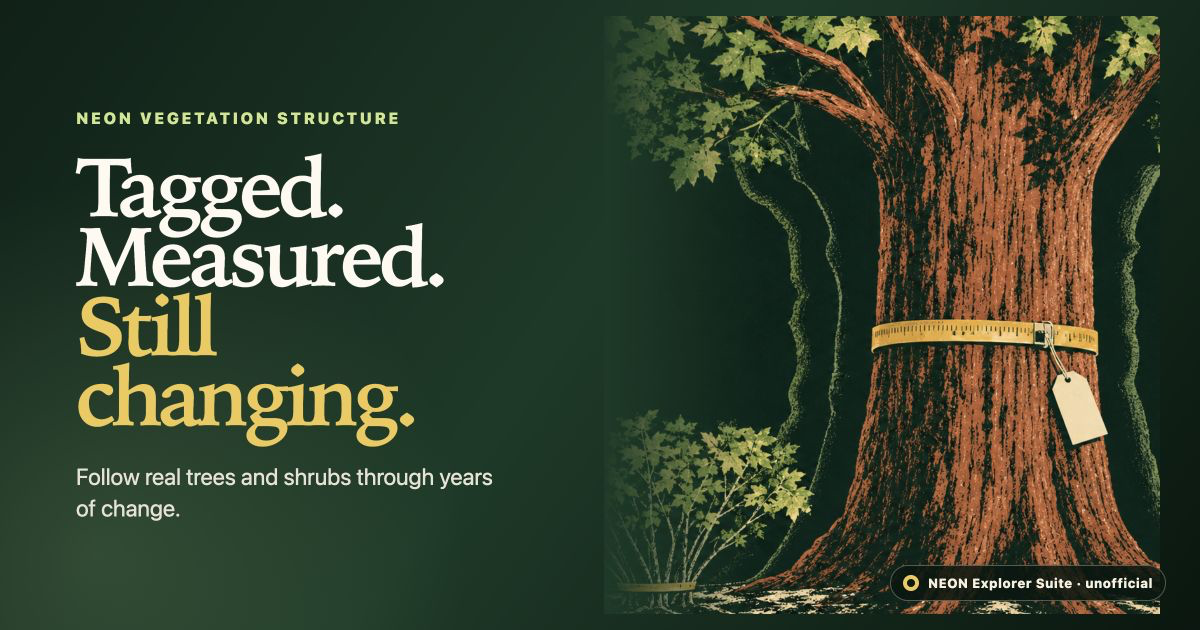
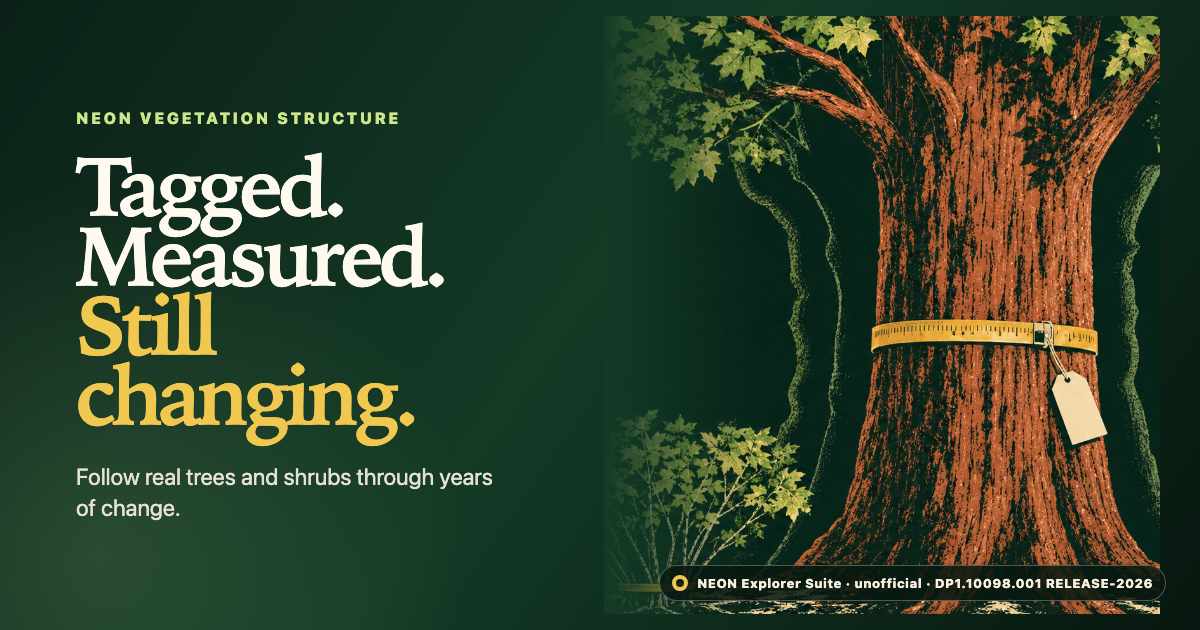
docs(cover): share card carries DP1.10098.001 RELEASE-2026; og-image re-rendered and re-hashed

diff --git a/docs/social-card.html b/docs/social-card.html
@@ -109,7 +109,7 @@
     <figure class="art">
       <img src="assets/vegetation-living-poster.png" alt="" />
     </figure>
-    <div class="stamp"><span class="ring"></span> NEON Explorer Suite · unofficial</div>
+    <div class="stamp"><span class="ring"></span> NEON Explorer Suite · unofficial · DP1.10098.001 RELEASE-2026</div>
   </main>
 </body>
 </html>

diff --git a/docs/IMAGE-PROVENANCE.md b/docs/IMAGE-PROVENANCE.md
@@ -34,8 +34,8 @@ rather than generated marks.
[7 lines of base64/hex data omitted]
 
 The social card is a separate local HTML/CSS composition rendered at exactly
 1200×630; it is not a crop pretending to be the cover. Nonblank pixel variance
